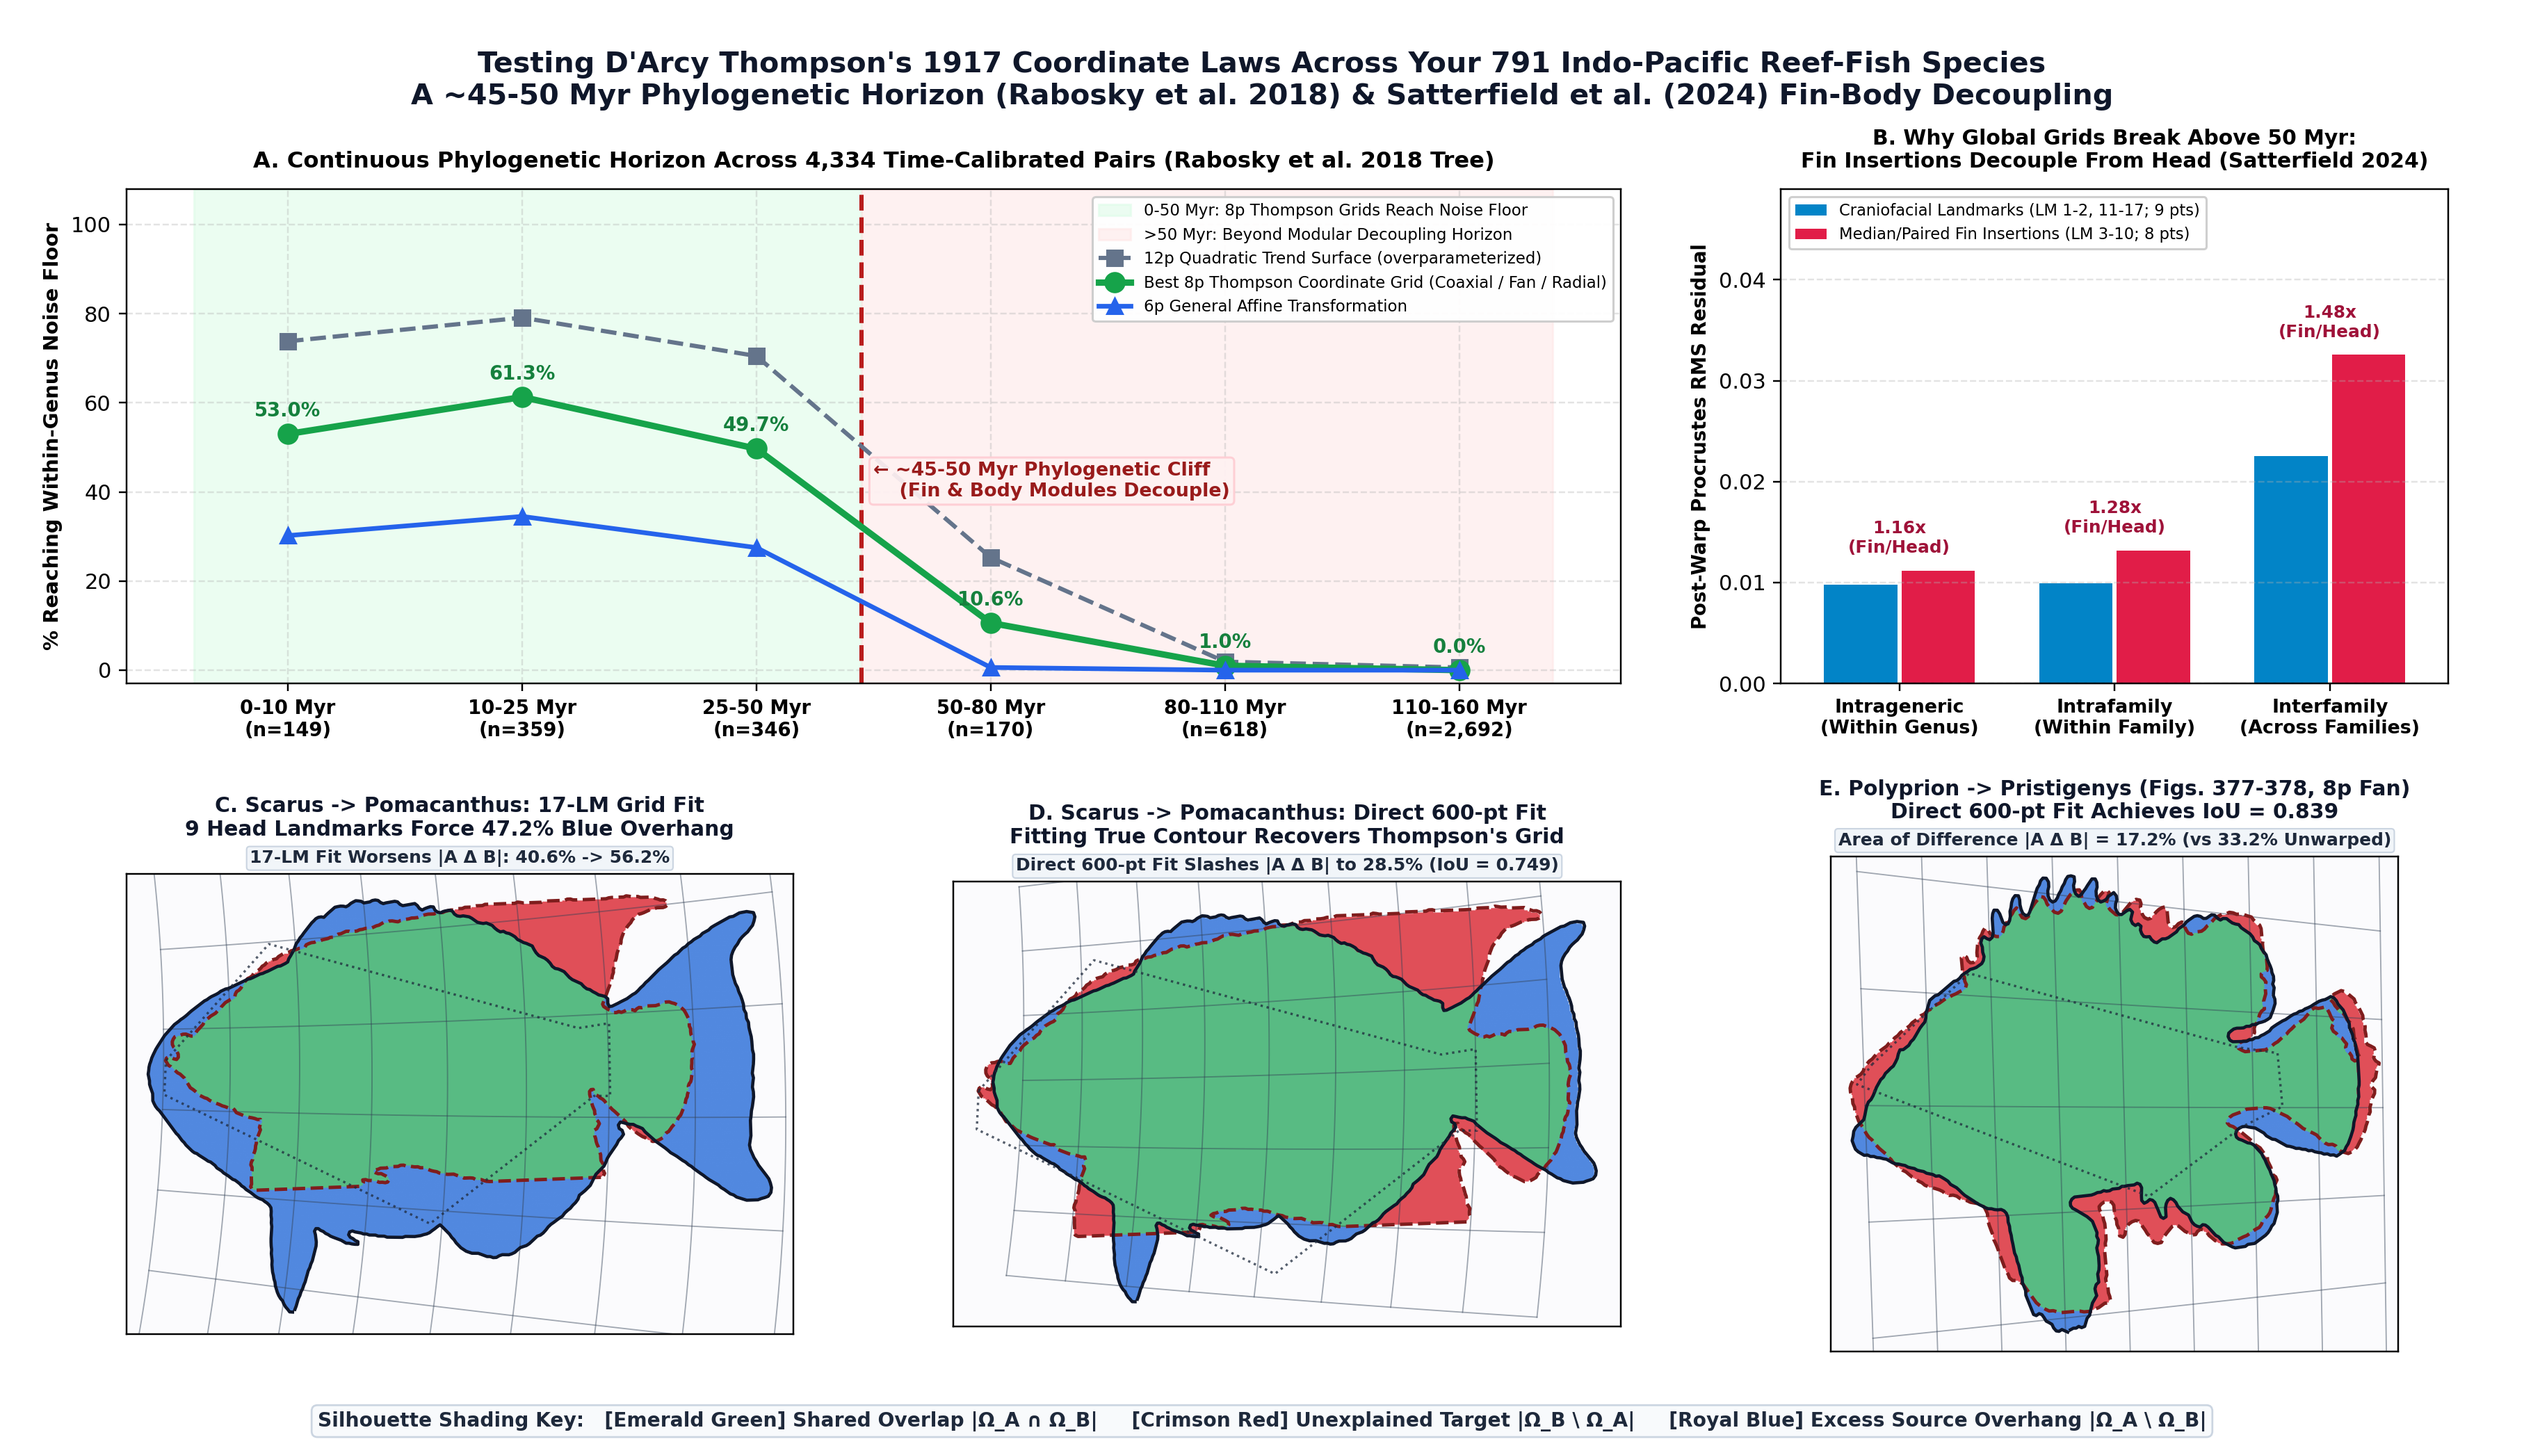
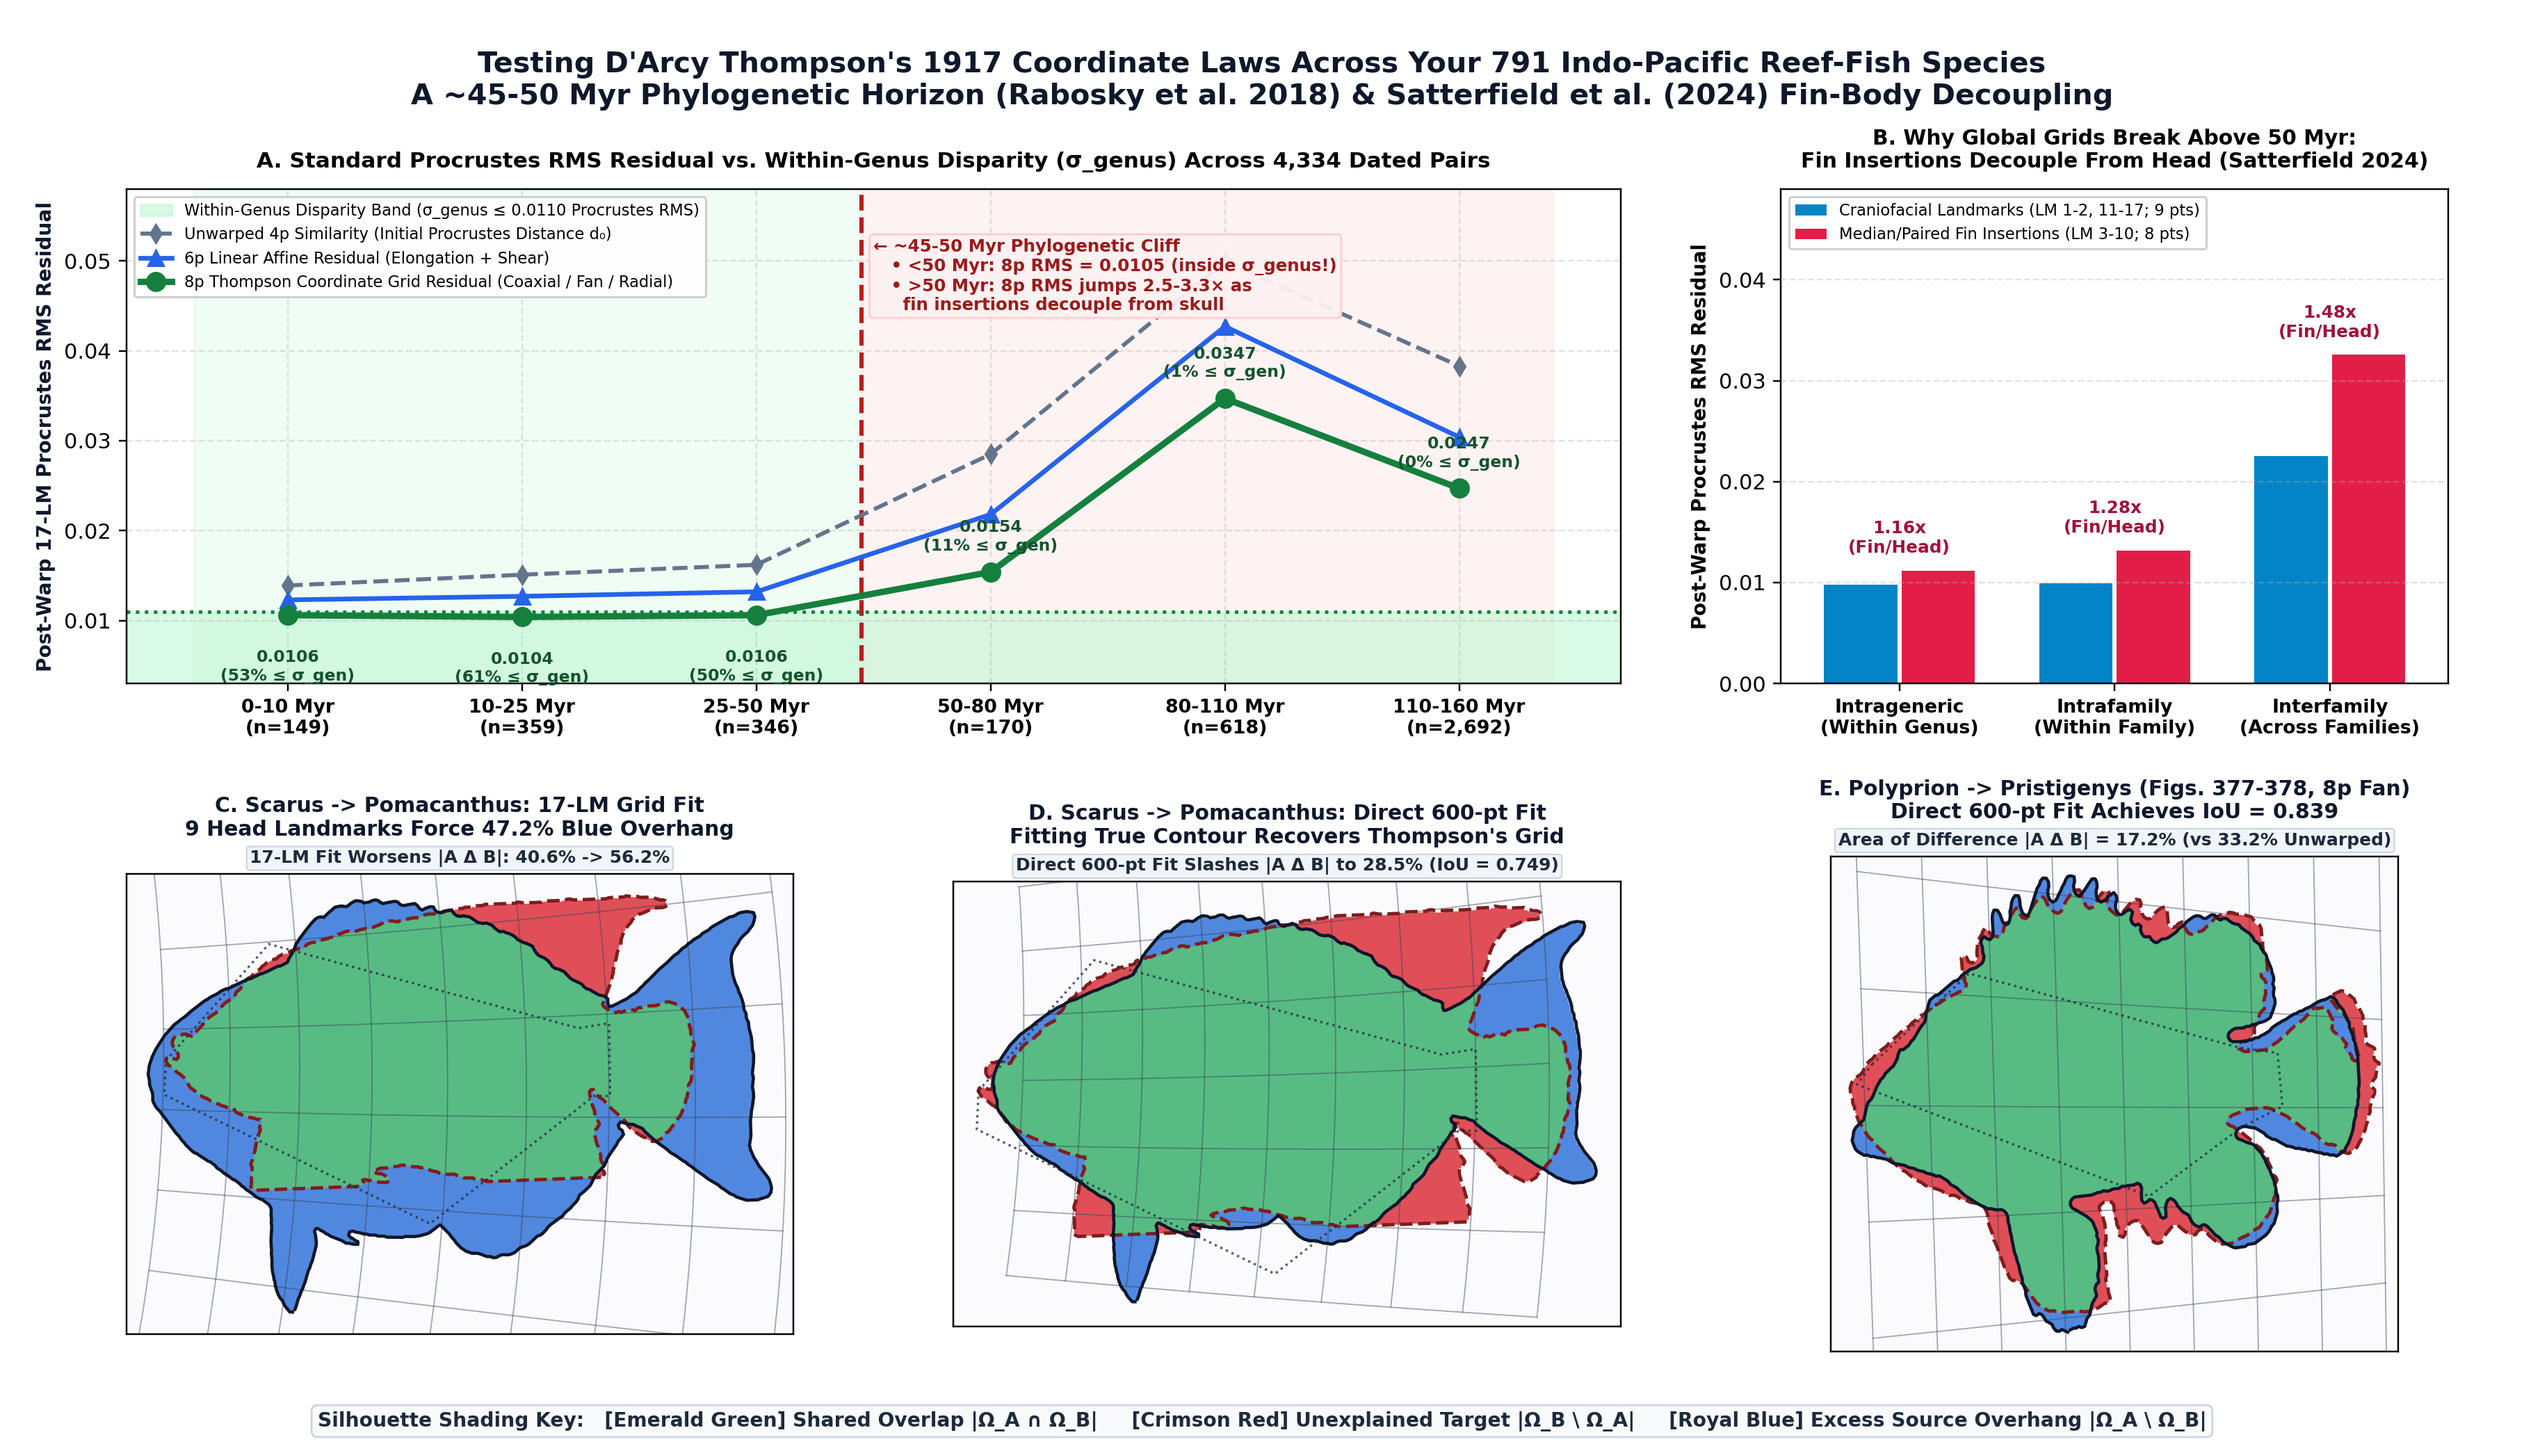
Plot continuous Procrustes RMS residual vs within-genus disparity band in Panel E (GIF) and Fig 2 (Panel A)

Changed region(s): [[0.0, 0.0933, 0.6537, 0.5287], [0.0934, 0.2799, 0.1868, 0.311], [0.2802, 0.2177, 0.3113, 0.2488]]

diff --git a/thompson/generate_outreach_email_figures.py b/thompson/generate_outreach_email_figures.py
@@ -250,30 +250,47 @@ def build_all_outreach_figures():
     ax2a = fig2.add_subplot(gs2[0, 0:2])
     bins_labels = ["0-10 Myr\n(n=149)", "10-25 Myr\n(n=359)", "25-50 Myr\n(n=346)", "50-80 Myr\n(n=170)", "80-110 Myr\n(n=618)", "110-160 Myr\n(n=2,692)"]
     xb = np.arange(len(bins_labels))
-    aff_floor = [30.2, 34.5, 27.5, 0.6, 0.0, 0.0]
+
+    # Standard continuous Procrustes RMS residuals (median across pairs in each bin)
+    sim_rms = [0.0139, 0.0151, 0.0162, 0.0285, 0.0499, 0.0383]
+    aff_rms = [0.0123, 0.0127, 0.0132, 0.0218, 0.0427, 0.0304]
+    thomp_rms = [0.0106, 0.0104, 0.0106, 0.0154, 0.0347, 0.0247]
+    floor_med = 0.0110  # Median within-genus interspecific RMS disparity (sigma_genus)
+
+    # Secondary axis: % of pairs warped below target genus's own 1.0x sigma_genus disparity
     thomp_floor = [53.0, 61.3, 49.7, 10.6, 1.0, 0.0]
-    quad_floor = [73.8, 79.1, 70.5, 25.3, 1.9, 0.6]
 
-    ax2a.axvspan(-0.4, 2.45, color="#dcfce7", alpha=0.55, label="0-50 Myr: 8p Thompson Grids Reach Noise Floor")
-    ax2a.axvspan(2.45, 5.4, color="#fee2e2", alpha=0.45, label=">50 Myr: Beyond Modular Decoupling Horizon")
+    ax2a.axvspan(-0.4, 2.45, color="#dcfce7", alpha=0.45)
+    ax2a.axvspan(2.45, 5.4, color="#fee2e2", alpha=0.38)
+    ax2a.axhspan(0.0, floor_med, color="#bbf7d0", alpha=0.55,
+                 label=f"Within-Genus Disparity Band (σ_genus ≤ {floor_med:.4f} Procrustes RMS)")
+    ax2a.axhline(floor_med, color="#15803d", ls=":", lw=1.6)
     ax2a.axvline(2.45, color="#b91c1c", ls="--", lw=2.0)
-    ax2a.text(2.50, 39, "← ~45-50 Myr Phylogenetic Cliff\n    (Fin & Body Modules Decouple)", color="#991b1b", fontsize=8.8, fontweight="bold",
-              bbox=dict(boxstyle="round,pad=0.22", facecolor="#fff1f2", edgecolor="#fecdd3", alpha=0.92))
 
-    ax2a.plot(xb, quad_floor, "s--", color="#64748b", lw=2.0, markersize=7, label="12p Quadratic Trend Surface (overparameterized)")
-    ax2a.plot(xb, thomp_floor, "o-", color="#16a34a", lw=3.0, markersize=9, label="Best 8p Thompson Coordinate Grid (Coaxial / Fan / Radial)")
-    ax2a.plot(xb, aff_floor, "^-", color="#2563eb", lw=2.2, markersize=7, label="6p General Affine Transformation")
+    ax2a.plot(xb, sim_rms, "d--", color="#64748b", lw=1.9, markersize=6,
+              label="Unwarped 4p Similarity (Initial Procrustes Distance d₀)")
+    ax2a.plot(xb, aff_rms, "^-", color="#2563eb", lw=2.2, markersize=7,
+              label="6p Linear Affine Residual (Elongation + Shear)")
+    ax2a.plot(xb, thomp_rms, "o-", color="#15803d", lw=3.0, markersize=8.5,
+              label="8p Thompson Coordinate Grid Residual (Coaxial / Fan / Radial)")
 
-    for i, val in enumerate(thomp_floor):
-        ax2a.text(xb[i], val + 3.0, f"{val:.1f}%", ha="center", va="bottom", fontsize=9, fontweight="bold", color="#15803d")
+    for i, val in enumerate(thomp_rms):
+        offset_y = -0.0038 if i < 3 else 0.0020
+        ax2a.text(xb[i], val + offset_y, f"{val:.4f}\n({thomp_floor[i]:.0f}% ≤ σ_gen)",
+                  ha="center", va="bottom" if offset_y > 0 else "top",
+                  fontsize=7.7, fontweight="bold", color="#14532d")
 
-    ax2a.set_ylim(-3, 108)
-    ax2a.set_yticks([0, 20, 40, 60, 80, 100])
+    ax2a.text(2.50, 0.0445, "← ~45-50 Myr Phylogenetic Cliff\n   • <50 Myr: 8p RMS = 0.0105 (inside σ_genus!)\n   • >50 Myr: 8p RMS jumps 2.5-3.3× as\n     fin insertions decouple from skull",
+              color="#991b1b", fontsize=8.0, fontweight="bold",
+              bbox=dict(boxstyle="round,pad=0.24", facecolor="#fff1f2", edgecolor="#fecdd3", alpha=0.94))
+
+    ax2a.set_ylim(0.003, 0.058)
     ax2a.set_xticks(xb)
-    ax2a.set_xticklabels(bins_labels, fontsize=9, fontweight="bold")
-    ax2a.set_ylabel("% Reaching Within-Genus Noise Floor", fontsize=9.5, fontweight="bold")
-    ax2a.set_title("A. Continuous Phylogenetic Horizon Across 4,334 Time-Calibrated Pairs (Rabosky et al. 2018 Tree)", fontsize=10.5, fontweight="bold", pad=10)
-    ax2a.legend(loc="upper right", fontsize=7.5, framealpha=0.95)
+    ax2a.set_xticklabels(bins_labels, fontsize=8.8, fontweight="bold")
+    ax2a.set_ylabel("Post-Warp 17-LM Procrustes RMS Residual", fontsize=9.2, fontweight="bold", color="#0f172a")
+    ax2a.set_title("A. Standard Procrustes RMS Residual vs. Within-Genus Disparity (σ_genus) Across 4,334 Dated Pairs",
+                   fontsize=10.2, fontweight="bold", pad=10)
+    ax2a.legend(loc="upper left", fontsize=7.4, framealpha=0.95)
     ax2a.grid(True, ls="--", alpha=0.35)
 
     ax2b = fig2.add_subplot(gs2[0, 2])

diff --git a/thompson/generate_summary_animation_gif.py b/thompson/generate_summary_animation_gif.py
@@ -177,9 +177,11 @@ def main():
 
     bins_labels = ["0-10\nMyr", "10-25\nMyr", "25-50\nMyr", "50-80\nMyr", "80-110\nMyr", "110-160\nMyr"]
     xb = np.arange(len(bins_labels))
-    aff_floor = [30.2, 34.5, 27.5, 0.6, 0.0, 0.0]
+    sim_rms = [0.0139, 0.0151, 0.0162, 0.0285, 0.0499, 0.0383]
+    aff_rms = [0.0123, 0.0127, 0.0132, 0.0218, 0.0427, 0.0304]
+    thomp_rms = [0.0106, 0.0104, 0.0106, 0.0154, 0.0347, 0.0247]
     thomp_floor = [53.0, 61.3, 49.7, 10.6, 1.0, 0.0]
-    quad_floor = [73.8, 79.1, 70.5, 25.3, 1.9, 0.6]
+    floor_med = 0.0110
 
     for step_idx in schedule_idx:
         a = alphas_forward[step_idx]
@@ -254,33 +256,40 @@ def main():
         ax_d.legend(loc="upper right", fontsize=8.0, framealpha=0.94)
         ax_d.grid(True, ls="--", alpha=0.35)
 
-        # Panel E: The ~45-50 Myr Phylogenetic Cliff across 4,334 Dated Pairs
+        # Panel E: Continuous Procrustes RMS Residual vs. Within-Genus Disparity Band (sigma_genus)
         ax_e = fig.add_subplot(gs[1, 2])
-        ax_e.axvspan(-0.4, 2.45, color="#dcfce7", alpha=0.55)
-        ax_e.axvspan(2.45, 5.4, color="#fee2e2", alpha=0.45)
+        ax_e.axvspan(-0.4, 2.45, color="#dcfce7", alpha=0.45)
+        ax_e.axvspan(2.45, 5.4, color="#fee2e2", alpha=0.38)
+        ax_e.axhspan(0.0, floor_med, color="#bbf7d0", alpha=0.55,
+                     label=f"Within-Genus Disparity (σ_gen ≤ {floor_med:.3f})")
+        ax_e.axhline(floor_med, color="#15803d", ls=":", lw=1.4)
         ax_e.axvline(2.45, color="#b91c1c", ls="--", lw=2.0)
-        ax_e.text(2.52, 42, "← ~45-50 Myr Cliff\n(Node-disjoint\n t* = 45.8 Myr;\n Fin/Head = 1.48×)",
-                  color="#991b1b", fontsize=7.8, fontweight="bold",
-                  bbox=dict(boxstyle="round,pad=0.2", facecolor="#fff1f2", edgecolor="#fecdd3", alpha=0.92))
 
-        ax_e.plot(xb, quad_floor, "s--", color="#64748b", lw=1.8, markersize=5, label="12p Quadratic (overfit)")
-        ax_e.plot(xb, thomp_floor, "o-", color="#16a34a", lw=2.8, markersize=7, label="8p Thompson Grid (AICc Opt)")
-        ax_e.plot(xb, aff_floor, "^-", color="#2563eb", lw=2.0, markersize=5, label="6p Affine Baseline")
+        ax_e.plot(xb, sim_rms, "d--", color="#64748b", lw=1.7, markersize=5, label="Unwarped 4p (d₀)")
+        ax_e.plot(xb, aff_rms, "^-", color="#2563eb", lw=2.0, markersize=5.5, label="6p Linear Affine")
+        ax_e.plot(xb, thomp_rms, "o-", color="#15803d", lw=2.8, markersize=7, label="8p Thompson Grid")
 
         # Animated phylogenetic scanner bar synced with alpha
         scan_x = a * 5.0
         ax_e.axvline(scan_x, color="#0f172a", ls="-.", lw=1.5, alpha=0.65)
 
-        for i, val in enumerate(thomp_floor):
-            ax_e.text(xb[i], val + 3.0, f"{val:.0f}%", ha="center", va="bottom", fontsize=7.8, fontweight="bold", color="#15803d")
+        for i, val in enumerate(thomp_rms):
+            off_y = -0.0040 if i < 3 else 0.0022
+            ax_e.text(xb[i], val + off_y, f"{val:.3f}\n({thomp_floor[i]:.0f}%)",
+                      ha="center", va="bottom" if off_y > 0 else "top",
+                      fontsize=7.0, fontweight="bold", color="#14532d")
 
-        ax_e.set_ylim(-4, 105)
+        ax_e.text(2.52, 0.045, "← ~50 Myr Cliff\n(<50 Myr: inside σ_gen;\n >50 Myr: Fin/Head=1.48×)",
+                  color="#991b1b", fontsize=7.2, fontweight="bold",
+                  bbox=dict(boxstyle="round,pad=0.18", facecolor="#fff1f2", edgecolor="#fecdd3", alpha=0.92))
+
+        ax_e.set_ylim(0.003, 0.058)
         ax_e.set_xticks(xb)
-        ax_e.set_xticklabels(bins_labels, fontsize=7.8, fontweight="bold")
-        ax_e.set_ylabel("% Reaching Genus Noise Floor", fontsize=8.8, fontweight="bold")
-        ax_e.set_title("E. Phylogenetic Horizon (4,334 Pairs, 791 Species)\n8p Grids Work <50 Myr; Modules Decouple >50 Myr",
-                       fontsize=9.5, fontweight="bold", pad=8)
-        ax_e.legend(loc="upper right", fontsize=7.2, framealpha=0.94)
+        ax_e.set_xticklabels(bins_labels, fontsize=7.6, fontweight="bold")
+        ax_e.set_ylabel("Post-Warp Procrustes RMS", fontsize=8.6, fontweight="bold")
+        ax_e.set_title("E. Procrustes RMS vs. Genus Disparity (4,334 Pairs)\n<50 Myr Reaches σ_genus (50-61%); >50 Myr Jumps 3×",
+                       fontsize=9.1, fontweight="bold", pad=8)
+        ax_e.legend(loc="upper left", fontsize=6.8, framealpha=0.94)
         ax_e.grid(True, ls="--", alpha=0.35)
 
         fig.text(
